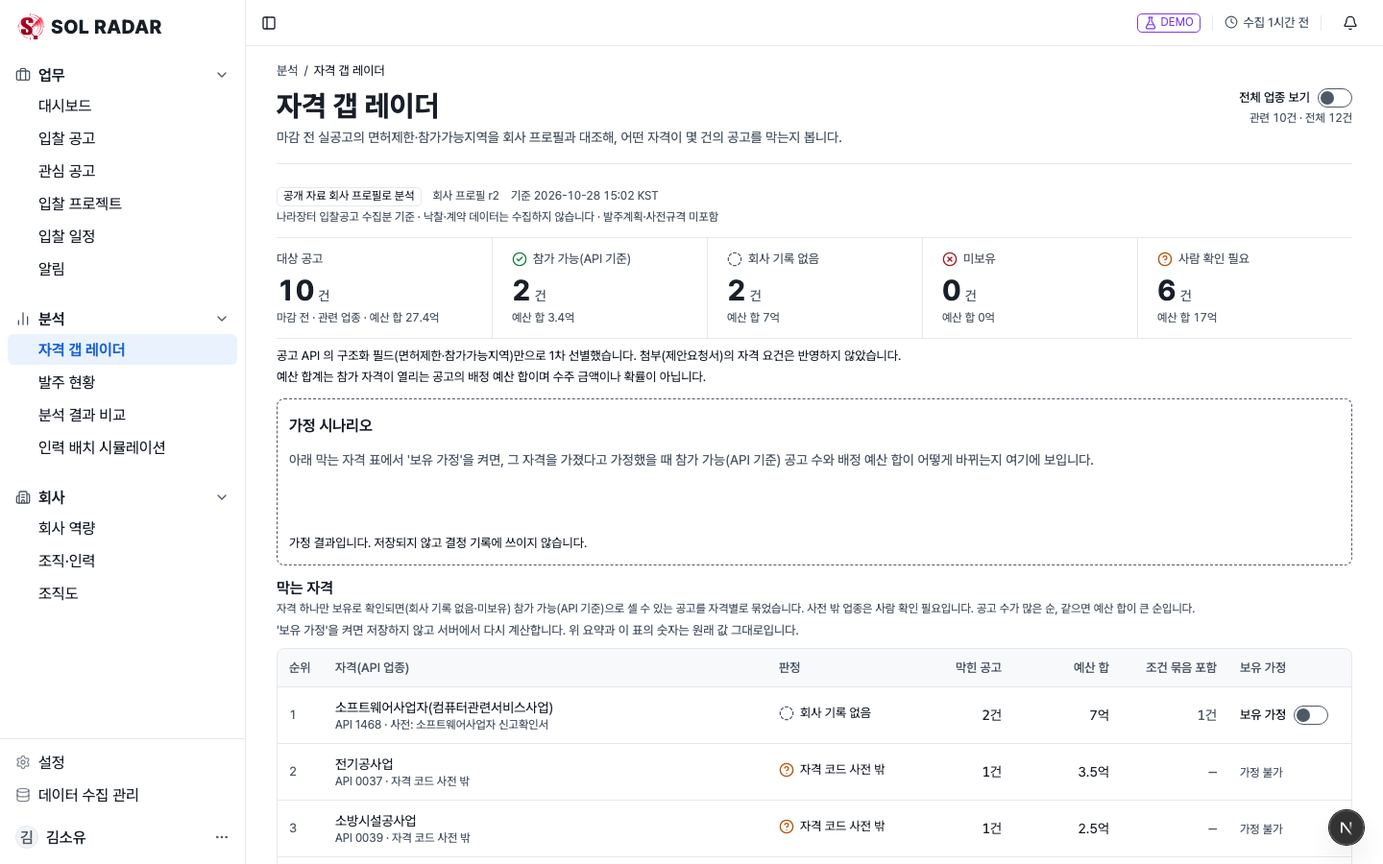
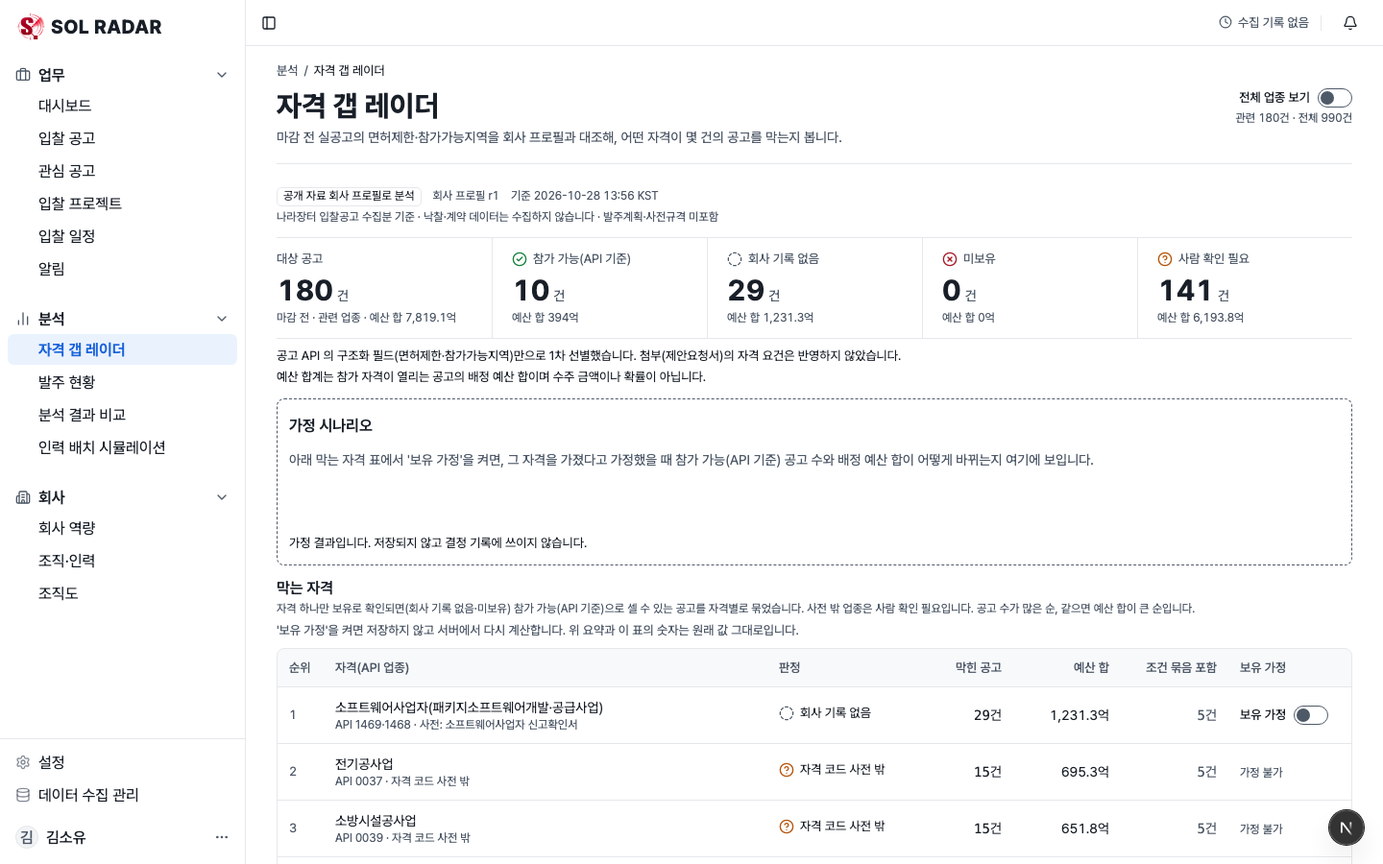
docs: 화면 개편 정본 반영
ADR-061(사이드바 4차·selected 토큰·업무 화면 공통 규칙), 06 §3.1·§3.4·§3.5·§4.1,
design-system 스킬, 계획 통합 기록, 증거 README(E2E·전 화면 점검), PROGRESS.

diff --git a/docs/06-UI-UX.md b/docs/06-UI-UX.md
@@ -83,12 +83,13 @@ flowchart TD
 | warning | `warning` | WATCH, NEEDS_REVIEW, PARTIAL, 신선도 경고 |
 | danger | `destructive` | NO-BID, NOT_SATISFIED, FAILED, 오류 |
 | demo | `demo` | `DEMO` 배지 전용. 다른 의미에 쓰지 않음 |
-| brand | `brand` | 선택 표시. 주요 버튼은 `primary`, 포커스 링은 `ring` |
+| brand | `brand` | 브랜드 색(차트 첫 계열·강조 배지·링크). 주요 버튼은 `primary`, 포커스 링은 `ring` |
+| selected | `selected`·`selected-foreground` | 선택·켜짐 바탕과 글자(사이드바 지금 메뉴, 탭·보기 전환·거르기 칩의 켜짐). `brand`의 연한 색(파스텔), 대비 4.8:1(2026-10-28 화면 개편, §3.5) |
 | info | 없음 → `muted-foreground` + 회전 아이콘 | 진행 중(QUEUED·RUNNING), 안내 |
 | neutral | 없음 → `muted-foreground` | 분석 없음, CANCELLED, 미확인 |
 | 바탕·카드 | `background`(흰색)·`card` | 화면 바탕은 흰색이고 구역은 가는 선(`border`)으로 나눈다 |
 
-`info`·`neutral`, 사이드바 활성 배경 `brand-soft`, 의미색의 연한 바탕 변형(`-soft`)은 `tokens.json`에 없다. 새 토큰을 더하지 않고 있는 토큰으로 바꾼다: `info`·`neutral`은 `muted-foreground`, 사이드바 활성은 `sidebar-accent`, 표 hover는 `bg-muted/50`, 연한 바탕 채움은 쓰지 않는다. danger 값도 `destructive`를 따른다([[16-DECISIONS|ADR-029]] A6 D15). 상태색은 글자·아이콘·테두리에만 쓰고 흰 바탕 위에 둔다(`$comment`). 텍스트 대비는 WCAG AA 4.5:1 이상을 목표로 하고, 구현 시 Playwright axe 검사로 확인한다(값을 바꾸면 검사도 다시).
+`info`·`neutral`, 의미색의 연한 바탕 변형(`-soft`)은 `tokens.json`에 없다. 새 토큰을 더하지 않고 있는 토큰으로 바꾼다: `info`·`neutral`은 `muted-foreground`, 표 hover는 `bg-muted/50`, 상태색의 연한 바탕 채움은 쓰지 않는다. 선택 바탕만 예외로 `selected` 짝을 더했다(2026-10-28 화면 개편, [[16-DECISIONS|ADR-061]]). 사이드바 활성(`sidebar-accent` 짝)도 같은 값이다. `accent`(회색)는 드롭다운·고스트 버튼·사이드바 hover 바탕이라 선택 표시에 쓰지 않는다. danger 값도 `destructive`를 따른다([[16-DECISIONS|ADR-029]] A6 D15). 상태색은 글자·아이콘·테두리에만 쓰고 흰 바탕 위에 둔다(`$comment`). 텍스트 대비는 WCAG AA 4.5:1 이상을 목표로 하고, 구현 시 Playwright axe 검사로 확인한다(값을 바꾸면 검사도 다시).
 
 ### 3.2 상태 표기 (아이콘 + 텍스트 병기)
 
@@ -128,7 +129,7 @@ flowchart TD
 | 간격 | 4px 기반: `4 8 12 16 24 32 48`. 섹션 간 32, 카드 내부 16~24, 표 셀 8×12 |
 | 그림자 | 카드 없음(테두리만), 드로어·모달 `0 8px 24px rgba(0,0,0,.12)` |
 | 모서리 | 하나로 맞춘다. `Card`·화면에서 만든 테두리 상자·버튼·입력칸은 `rounded-lg`(`radius` 8px), 더 큰 모서리는 떠 있는 창(대화상자)만. 임의 값(`rounded-[10px]`)을 쓰지 않는다(2026-10-28, design.actibooky.com DESIGN_RULES) |
-| 표 | 행 높이 44, 헤더 고정, 숫자 열 우측 정렬, 홀짝 배경 없음(hover만) |
+| 표 | 행 높이 44, 헤더 고정, 숫자 열 우측 정렬, 홀짝 배경 없음(hover만). 머리 줄 연한 회색 바탕·바깥 둥근 1px 테두리(§3.5) |
 | 애니메이션 | 150ms ease-out. `prefers-reduced-motion`이면 회전 아이콘 제외 전부 끔 |
 
 **글자 눈금 예외 — 대시보드**([[16-DECISIONS|ADR-030]] B25): `/dashboard` 본문(`AppPage` 안)만 글자 눈금을 +3px 키운다. body 14→17, label 13→16, caption 12→15, heading 16→19, title 30→33이고 줄 높이도 각각 +3px, 굵기·자간은 그대로다. 사이드바·Topbar·다른 화면은 그대로다. 값의 정본은 `design/tokens.json`의 대시보드 범위 변형이고 `pnpm tokens`가 범위 CSS를 만든다. design-system 스킬의 디자인 규칙 3번("같은 역할의 글자는 어느 화면에서나 같은 크기")의 예외다. 사이드바의 같은 예외는 §4.1이다.
@@ -137,16 +138,34 @@ flowchart TD
 
 중앙 정렬 히어로와 최대 1200px의 단 폭을 쓰고 장식은 걷어냈다(근거: [AI 티 걷어내기 스펙](../polaris/specs/done/2026-10-26-design-declutter.md)). 규칙은 다음과 같다.
 
-- 히어로만 가운데 정렬이고(사용자 결정), 나머지 구역의 제목·설명은 왼쪽 정렬이다(결정 L1).
+- 히어로와 흐르는 줄 둘(아래)이 가운데 정렬이고(사용자 결정), 나머지 구역의 제목·설명은 왼쪽 정렬이다(결정 L1).
+- **흐르는 줄 둘**(2026-10-28 화면 개편, [[16-DECISIONS|ADR-061]]): 히어로 바로 아래에 "솔리데오가 수행한 공공 서비스"(솔리데오 누리집 govSM.do의 17개 서비스 이미지) 줄과 "SOL RADAR 가 공고를 가져오는 곳"(9개 기관 로고) 줄을 둔다. 둘 다 로고·이미지만 있고 이름 글자·"연결 예정" 꼬리표가 없다. 제목은 작은 회색 글자 한 줄이고, 출처 줄 아래에 "기관 로고는 공고 데이터 출처 표시이며 제휴·인증을 뜻하지 않습니다."를 둔다. CSS만으로 목록을 두 번 이어 붙여 흘리고(둘째 사본 `aria-hidden`), 양 끝은 흐려지는 마스크다. 마우스를 올리거나 키보드 초점이 들어오면 멈추고, `prefers-reduced-motion`이면 흐르지 않고 줄바꿈한 멈춘 줄이다. 기관 로고는 기본 회색조이고 마우스를 올리면 원래 색이다. 로고는 각 기관 공식 CI 파일(나라장터·LH·한국전력공사는 마크 + 국문 이름 시그니처)을 고치지 않고 쓰며, 넓이가 같아지도록 기관마다 높이를 맞춘다. 9곳 가운데 아직 수집하지 않는 곳은 [랜딩 출처 연결 목록](plans/2026-10-28-landing-sources-to-connect.md)이 관리한다.
+- **녹화 영상**(2차 배포): 새 화면이 운영에 배포된 뒤 D1 운영 사이트에서 녹화한 15~30초 클립(소리 없음, webm + mp4)을 히어로와 흐르는 줄 사이에 둔다. 영상 파일이 들어오기 전에는 이 구역을 그리지 않는다(`LANDING_VIDEO = null`). `prefers-reduced-motion`이면 자동 재생하지 않고 포스터 + 재생 버튼이다.
 - 흰 바탕에 `brand` 파랑은 시작 버튼·메뉴 hover·링크·초점에만 쓴다. 큰 면을 `brand`로 칠하지 않고, 버튼에 색 그림자를 두지 않는다.
 - 분석 예시는 가짜 창 점과 큰 그림자 없이 1px 선 테두리이고, 무대는 중립 바탕이다.
 - 기능 4개와 원칙 4개는 같은 배치를 되풀이하는 구분선 행이다(왼쪽 제목·설명, 오른쪽 화면 조각 또는 "화면에서" 예시). 제목 앞 아이콘·좌우 교차·색 바탕 교차·번호가 없다. 번호는 순서가 정보인 3단계에만 본문 색으로 붙인다("01").
-- 움직임은 첫 화면과 분석 예시의 등장 하나다. 구역마다 같은 떠오르기를 되풀이하지 않는다.
+- 움직임은 첫 화면과 분석 예시의 등장, 흐르는 줄 둘(2026-10-28)이다. 구역마다 같은 떠오르기를 되풀이하지 않는다.
 - FAQ는 왼쪽 제목과 오른쪽 펼친 답변이다. 마지막 안내는 잉크색(`foreground`) 띠에 흰 글자와 시작하기 버튼 하나다(결정 L2). 바닥글은 흰 바탕이다.
 
 이 랜딩의 단 폭·흰 바닥글·브랜드 색 쓰임은 design-system 스킬의 마케팅 틀 규정보다 우선한다. 이전 랜딩 설계 문서는 보관 기록으로 유지한다.
 
-색·글꼴·글자 눈금은 기존 `design/tokens.json`을 유지한다. 제품 문구·기능 개발 상태·앵커·계정 진입 경로는 바꾸지 않는다. 분석 예시의 예시 데이터 표시, 점수 옆 수주 확률 고지, 담당자 결정 대기, 공고 선택·방향키 조작과 움직임 줄이기를 유지한다. 1440×900·1280×800 첫 화면에서 점수와 고지가 보이고 가로 넘침이 없어야 한다. 확인 결과는 [[PROGRESS]]와 `docs/evidence/landing/20261021-*`·`docs/evidence/design-declutter/`에 남긴다.
+색·글꼴·글자 눈금은 기존 `design/tokens.json`을 유지한다. 제품 문구·기능 개발 상태·앵커·계정 진입 경로는 바꾸지 않는다. 분석 예시의 예시 데이터 표시, 점수 옆 수주 확률 고지, 담당자 결정 대기, 공고 선택·방향키 조작과 움직임 줄이기를 유지한다. 1440×900·1280×800에서 "분석 예시 보기"를 누르면 점수와 고지가 함께 화면 안에 보이고, 가로 넘침이 없어야 한다(2026-10-28 흐르는 줄이 히어로와 분석 예시 사이에 들어와 "스크롤 없이 첫 화면에서"를 바꿨다. 점수가 고지 없이 보이지 않는다는 단언은 그대로다). 확인 결과는 [[PROGRESS]]와 `docs/evidence/landing/20261021-*`·`docs/evidence/design-declutter/`에 남긴다.
+
+### 3.5 업무 화면 공통 (2026-10-28 화면 개편)
+
+로그인 뒤 모든 업무 화면이 같은 틀을 쓴다([[16-DECISIONS|ADR-061]], 근거 [화면 개편 스펙](../polaris/specs/in-progress/2026-10-28-ui-refresh.md) §4.3). 화면 고유의 데이터·문구·링크·`aria-*`는 바꾸지 않았다.
+
+- **화면 머리**(`web/components/app-page.tsx`): 경로(묶음 / 화면, 회색 `type-label`, `web/components/app-breadcrumb.tsx`) → `eyebrow`(뒤로 링크처럼 기능이 있을 때만) → 제목(`type-title`) → 설명 → 1px 아래 구분선이다. 경로는 사이드바 메뉴 정의(`app-nav.ts`의 `breadcrumbOf`)에서 찾고, 묶음이 없는 화면(설정 등)은 경로 줄이 없다. 경로의 두 칸은 링크가 아니다. 본문 위 여백은 16px다(`/gaps` 1440×900 첫 화면에 순위 1~3행이 들어가게).
+- **표**(`web/components/ui/table.tsx`): 머리 줄 연한 회색(`bg-muted/50`), 바깥 둥근 1px 테두리(`rounded-lg border`), 행 구분선. 이미 테두리가 있는 상자 안의 표는 `containerClassName="rounded-none border-0"`으로 바깥 테두리를 꺼서 두 겹이 되지 않게 한다. 표를 감싼 `Card`는 두지 않는다.
+- **칩**(`web/components/ui/chip.tsx`): 회색 칩(`tone="neutral"`, `secondary` 바탕)과 강조 배지(`tone="brand"`, 파란 1px 테두리 + 파란 글자). 촘촘한 곳은 `size="sm"`(높이 20px, `type-caption`). 상태색 배지(충족·확인 필요·미충족, BID·WATCH·NO-BID), `DEMO`, 출처 배지(기관 로고 색·회사 프로필 출처)는 뜻이 있는 표시라 이 부품으로 바꾸지 않는다.
+- **카드**: 기본 그림자가 없다(1px 선과 여백, 2026-10-26 원칙).
+- **선택·켜짐 표시**: 켜짐은 `bg-selected text-selected-foreground font-semibold`, 꺼짐은 `text-muted-foreground hover:bg-muted`, 크기 `rounded-md px-3 py-1.5 type-label`이다. 하는 일에 따라 세 모양이다.
+
+| 종류 | 예 | 모양 |
+|---|---|---|
+| 1. 다른 화면·구역으로 가는 탭 | 설정 메뉴, 입찰 공고 종류(`bids-source-nav`), `/company` 탭 | 바깥 테두리 없이 `flex gap-1` |
+| 2. 같은 목록을 다른 기준으로 보는 하나 고르기 전환 | 입찰 일정 조직 전체/내 일정, 알림 전체/안 읽음, `/market` 기간·업종 범위 | 바깥 `inline-flex rounded-lg border border-border p-0.5` 상자 안의 알약(상자 안은 `py-1`) |
+| 3. 여러 개 켜는 거르기 칩 | 입찰 일정 일정 종류, 입찰 공고 출처 빠른 선택 | 칩마다 1px 테두리(`rounded-md border border-border`), 켜짐은 `border-transparent` + 선택 바탕. 바깥 상자 없음 |
 
 ## 4. 레이아웃 그리드
 
@@ -174,8 +193,9 @@ flowchart TD
 └──────────┴────────────────────────────────────────────────────────────────────────────────┘
 ```
 
-- 사이드바는 256px 고정(템플릿 `Sidebar` 폭 `16rem`, [[16-DECISIONS|ADR-029]] A6 D15). 접으면 메뉴 아이콘만 남는 64px 아이콘 줄이 된다(§4.1). 펼친 상태에서 묶음은 작은 회색 묶음 이름 줄(오른쪽 끝에 접기 화살표)로 나누고, 메뉴는 묶음 이름과 같은 왼쪽 선에 들여쓰기·세로선 없이 선다. 메뉴마다 글자 왼쪽에 회색 아이콘이 있다(§4.1, 2026-10-28 3차 결정. 그림은 아이콘을 생략했다). 활성 항목은 `sidebar-accent` 바탕 + 굵기 500 + `aria-current="page"` 하나로 표시하고 `brand` 막대는 쓰지 않는다(§4.1, 2026-10-26). 바탕은 본문과 같은 흰색이고 오른쪽 1px 선으로 본문과 나눈다. 그림의 "…"는 §4.1 표의 나머지 메뉴다.
-- 사이드바 묶음과 메뉴 15개(모두 `released`)는 §4.1이 정본이다. 묶음 아래 선으로 나눈 맨 아래 고정 칸에 설정·데이터 수집 관리와 사용자 칸이 있다. 노출 조건 5개([[16-DECISIONS|ADR-021]])를 채운 메뉴는 링크로, 아직 화면이 없는 메뉴는 링크 없이 메뉴 이름만 보인다. 2026-10-21 사용자 후속 요청으로 "준비 중" 배지와 툴팁 문구를 제거한다. 미출시 메뉴는 초점을 받지 않고 경로는 404 그대로다. 메뉴 정의는 `web/components/app-nav.ts` 한 곳(`released`·`planned`)이다. 메뉴 숨김은 권한이 아니며, 서버가 라우트마다 권한을 따로 검사한다. 미인증은 기존 인증 정책, 미출시 경로 404, 출시 경로에 권한 없음 403이다. 그림의 "수집 관리"는 데이터 수집 관리(`/admin/ingestion`, ADMIN만)다. 사용자 메뉴: 설정, 서비스 운영(`/ops`, 운영자만. `/ops` 분리는 해커톤 이후, [[16-DECISIONS|ADR-023]]), 로그아웃([[16-DECISIONS|ADR-021]]). 사이드바 맨 위 로고 아래 회사 이름 "솔리데오"는 고정 표시이고 조직 전환 메뉴가 없다.
+- 사이드바는 256px 고정(템플릿 `Sidebar` 폭 `16rem`, [[16-DECISIONS|ADR-029]] A6 D15). 접으면 메뉴 아이콘만 남는 64px 아이콘 줄이 된다(§4.1). 펼친 상태에서 묶음은 회색 묶음 아이콘 + 굵은 묶음 이름 + 오른쪽 끝 접기 화살표 줄로 나누고, 묶음 안 메뉴는 아이콘 없이 글자만 묶음 이름 선까지 들여 쓴다(§4.1, 2026-10-28 4차 결정. 그림은 묶음 아이콘을 생략했다). 활성 항목은 연한 파랑 바탕(`sidebar-accent`) + 파란 글자 + 굵기 600 + `aria-current="page"` 하나로 표시하고 `brand` 막대는 쓰지 않는다(§4.1). 바탕은 본문과 같은 흰색이고 오른쪽 1px 선으로 본문과 나눈다. 그림의 "…"는 §4.1 표의 나머지 메뉴다.
+- 사이드바 묶음과 메뉴 15개(모두 `released`)는 §4.1이 정본이다. 묶음 아래 선으로 나눈 맨 아래 고정 칸에 설정·데이터 수집 관리와 사용자 칸이 있다. 노출 조건 5개([[16-DECISIONS|ADR-021]])를 채운 메뉴는 링크로, 아직 화면이 없는 메뉴는 링크 없이 메뉴 이름만 보인다. 2026-10-21 사용자 후속 요청으로 "준비 중" 배지와 툴팁 문구를 제거한다. 미출시 메뉴는 초점을 받지 않고 경로는 404 그대로다. 메뉴 정의는 `web/components/app-nav.ts` 한 곳(`released`·`planned`)이다. 메뉴 숨김은 권한이 아니며, 서버가 라우트마다 권한을 따로 검사한다. 미인증은 기존 인증 정책, 미출시 경로 404, 출시 경로에 권한 없음 403이다. 그림의 "수집 관리"는 데이터 수집 관리(`/admin/ingestion`, ADMIN만)다. 사용자 메뉴: 설정, 서비스 운영(`/ops`, 운영자만. `/ops` 분리는 해커톤 이후, [[16-DECISIONS|ADR-023]]), 로그아웃([[16-DECISIONS|ADR-021]]). 사이드바 맨 위는 로고(대시보드 링크)만 있고 조직 전환 메뉴가 없다(회사 이름 줄은 2026-10-28 사용자 결정으로 뺐다, `e9224f46`).
+- 위 막대에는 화면 이름을 두지 않는다. 화면 이름은 본문 머리의 경로(묶음 / 화면)와 제목에 있다(§3.5, 2026-10-28 화면 개편: 한 화면에 같은 이름이 세 번 나오지 않게). 사이드바가 안 보일 때(접은 넓은 폭) 지금 조직을 알 수 있게 위 막대 왼쪽에 조직 이름을 둔다.
 - Topbar 우측 순서는 고정: `DemoBadge` → `DataFreshnessIndicator` → `NotificationBell` → 사용자 메뉴(2026-10-26 현재, `web/components/topbar-status.tsx`). 그림의 `[DEMO]*`는 지금 보는 데이터 출처(주소의 `?origin=`, 없으면 서버 기본 출처)가 `demo`일 때만 보인다(`web/components/topbar-demo-indicator.tsx`). 실행 모드와 따로다. 템플릿 사이드바는 접으면 숨어서 로고 옆 배지가 사라지므로 Topbar에 둔다([[16-DECISIONS|ADR-029]] A6 D3). 행 단위 `DEMO` 배지는 모드와 무관하게 `isDemo=true` 레코드에 붙는다.
 - **2026-10-26 변경**: Topbar의 `RunModeIndicator`("실행 모드: mock")와 `AiModeIndicator`("AI: …")를 렌더링에서 뺐다([[plans/2026-10-26-live-ops-cutover|10-26 실운영 전환 실행서]] §1). 배포 설정 값이라 업무 사용자에게 뜻이 없고, 실공고를 보는 운영 화면에 "mock"이 보여 데모로 오해하게 했기 때문이다. 값과 연결은 그대로다. 지금 실행 모드·AI는 공고 상세 분석 요약 띠("분석 실행 모드: …"·"AI: …", §7)와 분석 결과 비교 화면의 "실행 모드" 행·분석 이력 필터에서 분석 단위로 보인다. 런타임 진단은 `GET /api/v1/admin/ai/status`(ADMIN, 지금 이를 보여 주는 화면은 없다)와 `/admin/ingestion`(수집 모드·정기 일정·[지금 불러오기], §5.8)이 맡는다.
 - Topbar 지표(`DataFreshnessIndicator`)의 값·색·갱신 주기는 §8이 정본이다.
@@ -183,6 +203,8 @@ flowchart TD
 - 1920px 이상은 콘텐츠를 1440에 가두고 좌우 여백으로 처리한다.
 
 ### 4.1 사이드바 묶음과 메뉴
+
+**묶음 머리 아이콘·파스텔 선택(4차 결정, 2026-10-28)**: 사용자가 대시보드 레퍼런스(`web/public/reference/ui.png`, granter User Guide 캡처)를 주며 "사이드바를 눌렀을 때 파스텔톤이고, 아이콘이 심플하고 깔끔함"을 좋다고 했고, 브라우저 시안 A를 골랐다(스펙 U2). 묶음 줄은 회색 묶음 아이콘(업무 `briefcase`, 분석 `chart-no-axes-column`, 회사 `building-2`) + 본문 색 굵은 묶음 이름 + 늘 보이는 접기 화살표다. 묶음 안 메뉴는 펼친 상태에서 아이콘 없이 글자만 묶음 이름 선(아이콘 16px + 사이 8px)까지 들여 쓴다. 활성은 연한 파랑 바탕 + 파란 글자 + 굵기 600이고, hover는 회색이다(파랑이면 선택이 둘로 보인다). 첫 결과 스크린샷을 사용자가 보고 확정했다. 3차 결정의 트리 세로선 없음·묶음 사이 16px, 접기 기능, 글자 크기 예외(+3px), 묶음 3개와 순서, 맨 아래 고정 칸(아이콘 + 글자 그대로), 흰 바탕, 64px 아이콘 줄(접으면 메뉴별 아이콘)은 그대로다. 줄 높이는 32px 그대로다(36px이면 1280×800에서 메뉴가 아래 고정 칸에 가려 사이드바 안 스크롤이 생긴다). 결정 기록은 [[16-DECISIONS|ADR-061]]·[[16-DECISIONS|ADR-021]] 2026-10-28 4차 개정, 증거는 [화면 개편](evidence/ui-refresh/README.md)이다. 아래 3차 결정 문단의 "묶음 줄"·"메뉴 아이콘"·"활성 굵기 500"은 이 결정으로 바뀌었다.
 
 **actibooky 톤(3차 결정, 2026-10-28)**: 사용자가 "아직도 촌스럽다"며 design.actibooky.com 사이드바를 참고하라고 했고, 비교 시안의 A안을 골랐다. 트리 세로선과 들여쓰기를 없애고, 묶음 줄은 작은 회색 묶음 이름 + 오른쪽 끝 접기 화살표로 바꾸고, 메뉴 아이콘을 회색으로 낮추고, 활성 굵기를 600에서 500으로 낮추고, 묶음 사이를 16px 띄웠다. 묶음 접기 기능, 펼친 상태 아이콘, 글자 크기 예외(+3px), 묶음 3개와 순서, 맨 아래 고정 칸, 흰 바탕, 64px 아이콘 줄은 그대로다. 결정 기록은 [[16-DECISIONS|ADR-021]] 2026-10-28 3차 개정, 증거는 [사이드바 actibooky 톤](evidence/sidebar-actibooky/20261028/README.md)이다.
 
@@ -192,10 +214,10 @@ flowchart TD
 
 **2026-10-21 사용자 후속 요청 — 표시 변경**: 미출시 메뉴는 이름만 링크 없이 표시한다. "준비 중" 배지와 접힌 사이드바의 툴팁 접미사는 모두 제거한다. `planned` 상태·초점 제외·미출시 경로 404·권한 가드는 유지한다. 지금 `planned` 메뉴는 없으며, 이 규칙은 향후 미출시 메뉴에도 적용한다.
 
-- **맨 위**: SOL RADAR 로고(`web/components/logo.tsx`)와 그 아래 작은 회색 글자의 회사 이름이다. 머리글자 사각형은 두지 않는다. 받은 초대가 있으면 그 아래 아이콘 + "받은 초대" 줄과 개수를 둔다.
-- **묶음 줄**: 접기 버튼이다. 왼쪽에 묶음 이름(작은 회색 글자, 굵기 500), 오른쪽 끝에 접기 화살표(펼침 `chevron-down`/접힘 `chevron-right`, 14px)만 두고 아이콘은 없다. 펼친 묶음의 화살표는 마우스를 올리거나 키보드 초점이 올 때만 보이고, 접은 묶음의 화살표는 늘 보인다. 첫 묶음 밖의 묶음은 위 묶음과 16px 띄운다. `aria-expanded`·`aria-controls`를 단다. 묶음 목록의 접근 이름은 묶음 이름(업무·분석·회사)이다. 지금 화면이 속한 묶음은 처음 열거나 다른 묶음의 화면에서 옮겨 올 때 펼친다(같은 묶음 안에서 옮기면 접어 둔 그대로다, `web/components/app-nav.ts`의 `currentNavGroupId`). 접힘 상태는 보는 사람 브라우저의 `localStorage`(키 `sol-radar.sidebar.collapsed-groups`, `web/lib/stores/sidebar-groups.ts`)에만 두며, 저장값을 읽지 못하면 모두 펼친 상태로 시작하고, 저장하지 못해도 지금 창의 접고 펴기는 그대로 된다(다음 방문 때 모두 펼친다). 서버 렌더와 첫 그림은 모두 펼친 상태로 그리고 저장값은 그 뒤에 읽어 하이드레이션이 어긋나지 않는다.
-- **메뉴**: 들여쓰기·세로선 없이 묶음 이름·맨 아래 고정 칸과 같은 왼쪽 선에 선다. 아이콘 16px + 글자 16px(`type-label` 13px에 아래 글자 크기 예외 +3px). 아이콘은 장식(`aria-hidden`)이고 이름은 항상 글자로 보인다. 아이콘 색은 `muted-foreground` 70%이고, 지금 화면과 마우스를 올린 메뉴만 글자색이다. 가장 긴 이름 "인력 배치 시뮬레이션"도 펼친 폭 256px에서 말줄임 없이 들어가야 한다(1440·1280 두 폭). 링크이며 지금 화면이면 `aria-current="page"`다. 활성 표시는 `sidebar-accent` 바탕 + 굵기 500 하나이고 `brand` 막대를 쓰지 않는다. hover는 옅은 회색 바탕이다.
-- **맨 아래 고정 칸**: 위쪽 1px 선으로 메뉴 영역과 나눈다. 설정·데이터 수집 관리(ADMIN만) 다음 사용자 칸이다. 설정·데이터 수집 관리는 묶음 줄 없이 위 메뉴와 같은 아이콘 + 글자로 보인다. 사용자 칸은 한 줄(작은 아바타 + 이름 + 메뉴 표시)이고 이메일은 열린 메뉴 안에만 보인다. 메뉴 영역이 길어지면 메뉴 영역만 스크롤되고 고정 칸 자리는 바뀌지 않는다.
+- **맨 위**: SOL RADAR 로고(`web/components/logo.tsx`, 대시보드 링크)만 있다. 회사 이름 줄과 머리글자 사각형은 두지 않는다. 받은 초대가 있으면 그 아래 아이콘 + "받은 초대" 줄과 개수를 둔다.
+- **묶음 줄**: 접기 버튼이다(높이 32px). 왼쪽에 회색 묶음 아이콘(16px)과 묶음 이름(`type-label`, 본문 색, 굵기 600), 오른쪽 끝에 회색 접기 화살표(펼침 `chevron-down`/접힘 `chevron-right`, 16px)를 둔다. 화살표는 늘 보인다. hover는 회색(`accent`) 바탕이다. 첫 묶음 밖의 묶음은 위 묶음과 16px 띄운다. `aria-expanded`·`aria-controls`를 단다. 묶음 목록의 접근 이름은 묶음 이름(업무·분석·회사)이다. 지금 화면이 속한 묶음은 처음 열거나 다른 묶음의 화면에서 옮겨 올 때 펼친다(같은 묶음 안에서 옮기면 접어 둔 그대로다, `web/components/app-nav.ts`의 `currentNavGroupId`). 접힘 상태는 보는 사람 브라우저의 `localStorage`(키 `sol-radar.sidebar.collapsed-groups`, `web/lib/stores/sidebar-groups.ts`)에만 두며, 저장값을 읽지 못하면 모두 펼친 상태로 시작하고, 저장하지 못해도 지금 창의 접고 펴기는 그대로 된다(다음 방문 때 모두 펼친다). 서버 렌더와 첫 그림은 모두 펼친 상태로 그리고 저장값은 그 뒤에 읽어 하이드레이션이 어긋나지 않는다.
+- **메뉴**: 묶음 안 메뉴는 펼친 상태에서 아이콘 없이 글자만, 세로선 없이 묶음 이름 선까지 들여 쓴다(`pl-8`). 글자 16px(`type-label` 13px에 아래 글자 크기 예외 +3px). 메뉴별 아이콘은 접은 64px 줄에서만 보인다(장식, `aria-hidden`). 가장 긴 이름 "인력 배치 시뮬레이션"도 펼친 폭 256px에서 말줄임 없이 들어가야 한다(1440·1280 두 폭). 링크이며 지금 화면이면 `aria-current="page"`다. 활성 표시는 연한 파랑 바탕(`sidebar-accent` = `selected`) + 파란 글자(`sidebar-accent-foreground`) + 굵기 600 하나이고 `brand` 막대를 쓰지 않는다. 활성 메뉴는 마우스를 올려도 그 바탕 그대로다. hover는 회색(`accent`) 바탕이다.
+- **맨 아래 고정 칸**: 위쪽 1px 선으로 메뉴 영역과 나눈다. 설정·데이터 수집 관리(ADMIN만) 다음 사용자 칸이다. 설정·데이터 수집 관리는 묶음 줄 없이 회색 아이콘 + 글자로 보인다(들여 쓰지 않는다, 활성·hover는 위 메뉴와 같다). 사용자 칸은 한 줄(작은 아바타 + 이름 + 메뉴 표시)이고 이메일은 열린 메뉴 안에만 보인다. 메뉴 영역이 길어지면 메뉴 영역만 스크롤되고 고정 칸 자리는 바뀌지 않는다.
 - **접은 상태(64px)**: 묶음 줄을 숨기고 메뉴 아이콘만 세로로 놓는다. 묶음을 접어 두었어도 이 상태에서는 모든 메뉴 아이콘이 보인다. 묶음 사이와 고정 칸 위에 짧은 1px 선을 긋는다. 마우스를 올리거나 키보드 초점이 오면 메뉴 이름 툴팁이 뜨고, 링크에는 `aria-label`로 이름을 준다. 맨 위에는 로고 마크만 남는다.
 - **바탕**: 본문과 같은 흰색(`design/tokens.json`의 `sidebar`) + 오른쪽 1px 선이다(S2).
 - **글자 크기 예외**([[16-DECISIONS|ADR-030]] B26): 앱 틀 사이드바 전체(회사 이름·메뉴·묶음 줄·맨 아래 사용자 칸)의 글자는 모든 화면에서 앱 틀 기본 눈금보다 3px 크다. 실제 사이드바 눈금에 +3px 하므로 메뉴 `type-label` 13→16px, caption 12→15px다(B25 대시보드와 같은 규칙, 기준 정정은 [[16-DECISIONS|ADR-031]] C1). 방식은 §3.3 대시보드 예외와 같은 `design/tokens.json` 범위 변형이고 design-system 디자인 규칙 3번의 예외다. 항목 높이는 글자에 맞춰 늘 수 있다(C6 B2에서 확정). 사용자 원문 "사이드 바 글씨도 작은데 같이 올려"(2026-10-19).

diff --git a/.claude/skills/design-system/SKILL.md b/.claude/skills/design-system/SKILL.md
@@ -9,11 +9,11 @@ description: 화면을 만들거나 고칠 때 따르는 디자인 시스템 규
 
 웹(`web/`)은 조밀하고 가는 선으로 나눈 제품 화면이다.
 
-1. **바탕은 흰색, 구역은 가는 선.** 카드는 `border` + `shadow-xs`, 줄 사이는 `divide-border` 다. 면의 색만으로 구역을 나누지 않는다. 첫 화면(마케팅 틀)만 예외다 — 아래 "웹 틀" 표를 따른다.
+1. **바탕은 흰색, 구역은 가는 선.** 카드는 `border` 만이고 그림자가 없다(2026-10-28), 줄 사이는 `divide-border` 다. 면의 색만으로 구역을 나누지 않는다. 첫 화면(마케팅 틀)만 예외다 — 아래 "웹 틀" 표를 따른다.
 2. **조밀하게.** 본문 14px, 라벨 13px. 버튼은 기본 36px(작은 것 32·28px, 큰 것 44px), 입력칸 40px, 모서리 8px 이다.
 3. **제목이 화면을 이끈다.** `h1` 은 화면에 하나이고 `type-title` 이다. 같은 역할의 글자는 어느 화면에서나 같은 크기다.
 4. **주요 버튼은 화면에 하나.** `default`(남색)는 하나만 두고 나머지는 `outline`·`ghost`·링크로 낮춘다.
-5. **색은 아낀다.** 버튼은 `primary`(남색)이고 브랜드 색 `brand` 는 차트·선택 표시에만 쓴다(첫 화면에서는 로고 점·선택 막대·점수 막대·인용 바탕·안내 아이콘에도 쓴다). 나머지 위계는 회색 단계로 만든다.
+5. **색은 아낀다.** 버튼은 `primary`(남색)이고 브랜드 색 `brand` 는 차트·강조 배지·링크에만 쓴다. 첫 화면에서는 로고 점·선택 막대·점수 막대·인용 바탕·안내 아이콘에도 쓴다. 선택·켜짐 바탕은 그 파랑의 연한 색 `selected` 다(2026-10-28, ADR-061). 나머지 위계는 회색 단계로 만든다.
 6. **틀 안에 둔다.** 로그인 뒤 화면은 업무 틀(사이드바와 위 막대. 조직(템플릿) 틀도 같은 셸), 운영자 화면은 운영자 틀(머리 막대 하나), 로그인·안내 화면은 인증 틀(화면 가운데의 좁은 단, 로고·카드 없음), 첫 화면은 마케팅 틀(머리말과 바닥글)이다.
 7. **아이콘은 `lucide-react`, 16px.** 글자 없이 아이콘만 둔 버튼에는 이름(`aria-label`)을 단다.
 8. **장식하지 않는다.** 그라데이션, 알약 배지 머리글, 색 원 번호, 문장 속 색 강조, 지어낸 수치·후기·로고, 동작하지 않는 버튼을 넣지 않는다.
@@ -54,6 +54,8 @@ design/tokens.json  ──pnpm tokens──▶  web/app/globals.css
 - 색 이름은 shadcn 의 짝을 따른다: `<이름>` 은 바탕, `<이름>-foreground` 는 그 위 글자.
   `muted` 는 연한 바탕이고 보조 글자는 `muted-foreground` 다. 테두리는 `border`, 입력칸 테두리는 `input`, 포커스 링은 `ring`.
 - `primary` 는 주요 버튼(남색), `brand` 는 브랜드 색(파랑), `accent` 는 메뉴 항목 hover 바탕이다.
+  `selected`·`selected-foreground` 는 선택·켜짐(사이드바 지금 메뉴, 탭·보기 전환·거르기 칩의 켜짐)의 바탕과 글자이고, `accent` 로 선택을 표시하지 않는다.
+  업무 화면의 머리(경로 → 제목 → 구분선)·표·칩(`components/ui/chip.tsx`)·선택 표시 3종은 `docs/06-UI-UX.md` §3.5 를 따른다.
   `sidebar-*` 여덟 개는 사이드바 안에서만 쓴다(`web/components/ui/sidebar.tsx`·`web/components/app-shell.tsx`).
 - `chart-2` 는 차트의 둘째 계열 색이다(첫째 계열은 `brand`). 막대와 범례 색 칸에만 쓰고 글자·바탕·버튼에는 쓰지 않는다.
 - `kakao`·`naver`(와 `-foreground`)는 각 회사 로그인 버튼 가이드의 지정 색이다. 간편 로그인 버튼(`web/app/auth/social-sign-in.tsx`)과 로그인 수단 목록의 회사 표시(`web/components/provider-mark.tsx`), 그리고 `kakao` 는 개인 설정의 카카오톡 알림 연결 버튼(`web/app/(app)/[slug]/settings/kakao-notify-section.tsx`, ADR-038)에만 쓰고 값을 바꾸지 않는다.
@@ -95,7 +97,7 @@ sidebar(딸려 온 sheet·tooltip)·avatar·table.
 
 | 틀 | 파일 | 쓰는 화면 |
 |---|---|---|
-| 마케팅 | `web/components/site-header.tsx`·`web/components/site-footer.tsx` | 첫 화면 `web/app/page.tsx`. 단 폭 `max-w-300` + `px-10`(글줄 1120px). 머리말 72px 단색 흰 바탕. 본문 바탕 흰색이고 구역은 여백, 구역 안 목록은 1px 선으로 나눈다. 면 색은 분석 예시 무대(`bg-muted`)와 마지막 권유 띠(`bg-foreground`·`text-background`, 버튼 하나) 둘뿐이다. 가운데 정렬은 히어로 하나다. 글자는 첫 화면 눈금(`*-lg`·`subhead`·`wordmark`)을 쓰고 13px 미만을 쓰지 않는다. 바닥글은 흰 바탕이다(`docs/06-UI-UX.md` §3.4) |
+| 마케팅 | `web/components/site-header.tsx`·`web/components/site-footer.tsx` | 첫 화면 `web/app/page.tsx`. 단 폭 `max-w-300` + `px-10`(글줄 1120px). 머리말 72px 단색 흰 바탕. 본문 바탕 흰색이고 구역은 여백, 구역 안 목록은 1px 선으로 나눈다. 면 색은 분석 예시 무대(`bg-muted`)와 마지막 권유 띠(`bg-foreground`·`text-background`, 버튼 하나) 둘뿐이다. 가운데 정렬은 히어로와 그 아래 흐르는 줄 둘(솔리데오 수행 서비스·공고 출처 로고)이다. 글자는 첫 화면 눈금(`*-lg`·`subhead`·`wordmark`)을 쓰고 13px 미만을 쓰지 않는다. 바닥글은 흰 바탕이다(`docs/06-UI-UX.md` §3.4) |
 | 인증 | `web/components/auth-frame.tsx` (`AuthFrame`·`AuthHeader`) | 로그인·가입·비밀번호(`web/app/auth/`, 주소 `/auth/login` 등), 팀 만들기(`web/app/teams/new/`)·받은 초대(`web/app/invitations/`), 로그인 필요·연결 없음 안내, 없는 주소·오류. 단 폭 `max-w-100`(400px), 가운데 정렬한 제목 아래에 폼·버튼. 비밀번호 칸은 `web/components/password-input.tsx`(보기·숨기기 버튼) |
 | 업무 | `web/app/(app)/(work)/layout.tsx` + `web/components/app-shell.tsx` | SOL RADAR 업무 화면. 주소에 조직이 없다(ADR-021): 대시보드 `/dashboard`, 공고 `/bids`·`/bids/[id]`, 알림 `/notifications`, 데이터 수집 관리 `/admin/ingestion`(업무 역할 `sol_role=ADMIN` 전용 — 아래 운영자 틀과 다르다). 조직·인력 `/people`·조직도 `/org-chart` 는 같은 `AppShell` 을 `web/app/_lib/people-read-layout.tsx`(`PeopleReadLayout`)로 그린다 |
 | 조직(템플릿) | `web/app/(app)/[slug]/layout.tsx` + `web/components/app-shell.tsx` | 템플릿에서 이어 쓰는 조직 주소 화면: 설정·멤버·팀 `/<slug>/settings`, 작업 `/<slug>/tasks`, 템플릿 대시보드 `/<slug>/dashboard`. 사이드바 `NAV` 에 없다. 옛 주소 `/settings`·`/memos` 는 지금 업무 조직의 이 화면으로 보낸다(`web/app/(app)/home.ts`) |

diff --git a/docs/PROGRESS.md b/docs/PROGRESS.md
@@ -45,6 +45,7 @@ updated: 2026-10-28
 4. [[16-DECISIONS|ADR-056]](제안): 첨부 일부만 파싱된 추출의 재사용을 분석 대기(A)로 막을지, `source_hash` 캐시 키(B)로 막을지.
 5. 파서 "지원" 판정: 코드는 [[03-AI-PIPELINE|03]] §10.3 결정 규칙 4번 판정 없이 `PARSED`를 낸다. 규칙대로 고칠지, 실표본 6건으로 규칙을 바꿀지.
 6. LH 입찰공고(15159012) 운영 반영 B단계. A단계(LH를 끈 채 코드를 main·회사 ingest Worker에 반영)는 2026-10-28 끝났다(회사 ingest Worker `1646e7d033a1`, 12:00 나라장터 `SUCCEEDED`). registry 켜기(B1)는 main `c5c88510`에 들어갔고, 회사 반영(B2~B4)은 따로 승인한다([[2026-10-27-lh-bid-notice-activation|LH 활성화 계획]] §4.2).
+7. 화면 UI 개편([[16-DECISIONS|ADR-061]]) 통합 branch `feat/ui-refresh`의 main 병합·push·Vercel 1차 배포. 그 뒤 운영에서 랜딩 영상을 녹화(로그인은 사용자가 직접)해 2차 배포한다.
 
 ### 남은 일
 
@@ -52,6 +53,7 @@ updated: 2026-10-28
 - 리허설 중 FX-02를 재분석하지 않는다. 촬영 때 "이전 분석 66(가상 프로필) → 새 분석 43(공개 자료 프로필, 예상)"이 보여야 한다([[16-DECISIONS|ADR-059]]). 촬영의 S4 [재분석]만 한다.
 - 덱 pptx(`docs/submission/deck/sol-radar-deck.pptx`, git 밖)는 10-28 에 [[slides-spec|덱 제작 명세]]와 18장을 대조해 글·표·노트를 맞췄다(10-25 원본은 `sol-radar-backups/deck/` 에 백업). 그림·포스터는 옛 mock 화면 그대로라 촬영 뒤 바꾼다. 명세가 정본이다.
 - 카카오 실수신 녹화 전에 사용자 연결과 S0 수신 시험을 한다.
+- 화면 개편(ADR-061): 1차 배포 → 운영 녹화 영상 넣어 2차 배포 → 11-01부터 화면 동결·덱 클립 촬영. 2026-11-02 사용자 승인 뒤 운영 읽기 SELECT로 랜딩 출처 9곳 수집을 확인하고, 연결 안 된 곳은 로고를 뺄지 사용자가 정한다([출처 연결 목록](plans/2026-10-28-landing-sources-to-connect.md)).
 - 열린 확인: 운영 로그인 화면 확인(DEMO 마감 이동 뒤), 로그인 뒤 E2E(`test:e2e:work`·`test:e2e:auth`, Compose 필요. 수집 장애 격리·사이드바 되돌림·실운영 전환 변경에서 미실행), 배포 뒤 사진 1장 올리기·지우기([릴리스 실행서](evidence/integration/20261025-release-runbook.md) §4).
 
 **16에서 넘어온 할 일**(번호는 [[16-DECISIONS|16]]의 미결정·닫힌 미결정 번호):
@@ -133,6 +135,8 @@ updated: 2026-10-28
 ## 최근 작업 로그
 
 형식: `날짜 · 변경 · 검증`. 검증에는 실제로 돌린 명령과 결과만 적는다.
+
+- 2026-10-28 · 화면 UI 전체 개편([[16-DECISIONS|ADR-061]], 사용자 승인, [스펙](../polaris/specs/in-progress/2026-10-28-ui-refresh.md)): 선택·켜짐 파스텔 토큰 `selected`, 사이드바 묶음 머리 아이콘·메뉴 글자만 들여 쓰기(ADR-021 4차 개정, 사용자가 스크린샷 확정), 업무 화면 공통 틀(경로 → 제목 → 구분선, 표 머리 줄·둥근 테두리, `Chip`, 카드 그림자 없음, 선택 표시 3종), 랜딩 흐르는 줄 둘(솔리데오 수행 서비스 17개·공고 출처 9곳 로고만, U8). 영상 구역은 2차 배포. 작업자 넷(0f·ac·09·df)이 화면을 나눠 맡고 통합 branch `feat/ui-refresh` `b8aac468`로 합쳤다. 서버·DB·API·문구 뜻 변경 없음. 연결 안 된 출처 7곳은 [목록](plans/2026-10-28-landing-sources-to-connect.md), 11-02 운영 확인 · 전체 `pnpm verify` exit 0(`83af32c6`: 루트 286·web 885·`next build`·AI 170·결정 57), 리뷰 후속(`b8aac468`)은 `pnpm verify:changed --base 83af32c6` 통과·브라우저 14, 공개 E2E 51 통과(`83af32c6` 빌드), 독립 리뷰 1회(상 1건은 W2 커밋으로 이미 고쳐짐, 중 2건·하 2건 반영, 하 3건 기록만: 흐르는 줄 멈춤 버튼·분석 예시 탭 색 외 표시·출처 줄 제목), 화면별 1440·1280 스크린샷([증거](evidence/ui-refresh/README.md)). `test:e2e:work`(격리 스택): 1회차(`83af32c6`) axe `label-content-name-mismatch` 4건(사이드바 로고 링크, main `e9224f46`부터 있던 결함)·1280 페이지 열기 시간 초과 1건, 2회차(`b8aac468`, 로고 이름 고침) 17 통과·1 실패(격리 스택 Storage 버킷 누락, `pnpm storage:local` 뒤 그 spec 만 재실행 통과), 전 화면 점검 22경로 × 1440·1280 HTTP 200·넘침 0·pageerror 0. 미실행: `test:e2e:work` 전체 3회차, 운영 데이터 화면(배포 뒤)
 
 - 2026-10-28 · 입찰 일정 원본 일정·관련 공고 반영(운영 달력이 비어 있어 사용자 선택 1번, [[16-DECISIONS|ADR-060]] 후속): 조직 전체 보기에 관련 업종(`RELEVANT`·`CANDIDATE`) 실공고 마감과 나라장터 입찰공고 원본(`raw_payload`) 일정 5종(제출 시작·자격 등록 마감·협정서 마감·현장설명회·개찰), 일정 종류 거르기 칩 7개(`?kinds=`), 다가오는 14일 8건 + 접기([[06-UI-UX|06]] §5.15). 공공 API 추가 호출·Worker·마이그레이션·service role 0, 운영 DB 읽기 SELECT 1회([기록](evidence/calendar/20261028/prod-raw-check.md)). `218ee1f1`·`6da869df`, 2026-10-28 main 병합·push · 검증: 전체 `pnpm verify` exit 0(루트 286·web 98파일 880·`next build`·AI 170·결정 57), 서버 시험 34·브라우저 시험 9(변형 실패 확인), 09 독립 리뷰(하 5건 중 4건 반영), 격리 로컬 Supabase 로그인 QA(1440·1280, 59개 중 55 + 상한 밖 4개 내 일정에서 확인, 하 2건 수정), 응답 크기(가상 관련 222건, prod 빌드) 2.2MB → 516KB·gzip 41KB([증거](evidence/calendar/20261028/README.md)). 미실행: 관련 공고 읽기 실패 안내 줄 화면 확인(시험만), 로그인한 운영 화면
 - 2026-10-28 · LH A단계 회사 반영: `sol-radar-app` `24f2ac8` → `1646e7d0` fast-forward(사용자 결정으로 main 최신이 아닌 이 커밋에 고정, `compose.company.yaml` 로컬 수정 보존), 롤백 태그 `rollback-20261027-lh`(= `24f2ac84963c`), 09:15 ingest Worker만 `1646e7d033a1`로 재생성. LH API 호출 0회 · 일회용 `--check` exit 0(외부 6종 `DISABLED`), `--status` Job Scheduler 1개, healthy·restarts 0, 다른 sol-radar 컨테이너 그대로, `/health/ready` 200, 12:00 회차 `SUCCEEDED`·`COMPLETE`(247건), LH `ingest_runs` 0건([기록](evidence/company-rollout/20261028/lh-a-stage-ingest-worker.md))

diff --git a/docs/evidence/ui-refresh/README.md b/docs/evidence/ui-refresh/README.md
@@ -1,0 +1,42 @@
+# 화면 UI 개편 (2026-10-28)
+
+스펙: `polaris/specs/in-progress/2026-10-28-ui-refresh.md`. 계획: `docs/plans/2026-10-28-ui-refresh.md`. 결정: `docs/16-DECISIONS.md` ADR-061. 화면 규칙: `docs/06-UI-UX.md` §3.1·§3.4·§3.5·§4.1.
+
+통합 branch `feat/ui-refresh`(main `c9319df3` 기준). 작업자 넷이 각자 worktree·branch 에서 화면을 나눠 고치고, 메인 세션(45)이 diff·스크린샷을 확인한 뒤 합쳤다.
+
+| 작업자 | branch | 맡은 것 |
+|---|---|---|
+| W1 0f | `feat/ui-refresh-shell` | 토큰 `selected`, 사이드바, 화면 머리 경로, `ui/table`·`ui/chip`·`Card`, 설정·관리 화면, 입찰 일정·알림, 관심 공고·입찰 프로젝트 |
+| W2 ac | `feat/ui-refresh-work` | 대시보드, 입찰 공고 목록·부처 공고, 공고 상세·변경 이력, 회사 역량 |
+| W3 09 | `feat/ui-refresh-analysis` | 자격 갭 레이더, 발주 현황, 분석 결과 비교, 인력 배치 시뮬레이션(고칠 곳 없음) |
+| W4 df | `feat/ui-refresh-landing` | 랜딩 흐르는 줄 둘·출처 로고, 조직·인력·조직도 |
+
+## 스크린샷
+
+화면 데이터는 작업자마다 격리 로컬 Supabase 의 가상 데이터(`db-seed`, `demo:reset`, 작업자가 넣은 "(가상)" 행)다. 운영 데이터 화면은 배포 뒤 따로 본다. 파일 이름 앞머리는 찍은 작업자(w1~w4)다.
+
+- 앱 틀: `w1-sidebar-{1440,1280}`, `w1-sidebar-collapsed`, `w1-page-head-{bids,gaps,settings}-{1440,1280}`
+- 업무: `w2-dashboard-*`, `w2-bids-*`, `w2-bids-table-1280`, `w2-bids-programs-*`(+`-drawer-1280`), `w2-bid-detail-long-*`(띄어쓰기 없는 긴 공고명 W05), `w2-bid-detail-history-*`, `w2-bid-revisions-*`, `w2-watchlist-*`, `w2-projects-*`, `w2-project-detail-*`, `w1-calendar-*`(+`-1280-full`), `w1-notifications-*`
+- 분석: `w3-gaps-*`, `w3-gaps-1440-first`(1440×900 첫 화면, 관련 180건 데이터, 순위 3행 바닥 y 893), `w3-gaps-1440-assume`, `w3-market-*`, `w3-analysis-*`(+`-compare`), `w3-workforce-*`
+- 회사: `w3-company-{tech,licenses,projects,history,people,preferences,financials}-1440`, `w3-company-projects-1280`, `w3-people-*`, `w3-org-chart-*`(팀 선택 파스텔)
+- 로그인: `w3-auth-login-1440`
+- 설정·관리: `w1-settings-{account,members,organization}-*`, `w1-tasks-*`, `w1-admin-ingestion-*`
+- 랜딩: `w4-landing-{1440,1280}`, `w4-landing-services-1440`, `w4-landing-sources-1440`, `w4-landing-sources-hover-1440`(마우스를 올린 칸 원색), `w4-landing-sources-reduced-1440`(움직임 줄이기, 9곳 한눈에)
+
+한계:
+- 스크린샷은 작업자가 자기 화면을 끝낸 시점의 코드다. `w2-dashboard`·`w3-gaps-1440`·`w3-market-*`은 머리 버튼을 제목 줄로 내린 `90267ef5` 전, `w2-projects-*`는 보드 열 바탕을 바꾼 `90267ef5` 전이다. 리뷰 후속 `b8aac468`(사이드바 눌림 색·카드 안 표 테두리 2곳·`/market` 알약 높이)은 어느 스크린샷에도 없다. 최종 코드의 전 화면은 아래 점검으로 확인했다.
+- 인력 배치 시뮬레이션 표는 기간 충돌이 있어야 나오는데 시험 데이터에 충돌이 없어 표 모양을 화면으로 보지 못했다.
+- 공고 상세 가정 띠는 격리 데이터에 가정 계산 입력 기록이 없어 찍지 못했다(`what-if.browser.test` 통과로만 확인).
+- 영상 구역은 2차 배포에서 생긴다. 지금 랜딩에는 없다.
+
+## 검증 (통합 branch)
+
+- 전체 `pnpm verify` exit 0 (`83af32c6` + 정본 문서 수정 작업 폴더): 루트 286, web 99파일 885, `next build`, AI 170, 결정 57.
+- 커밋 게이트(`verify:quick`)는 통합 병합 커밋마다 통과했다.
+- 작업자 검증: 화면마다 관련 단위·브라우저 시험과 `pnpm verify:changed`, 1440·1280 가로 넘침 0·pageerror 0. 시험 단언은 랜딩 첫 화면 시험 하나만 스펙 §4.5 대로 바꿨다.
+- 공개 E2E 51 통과(`83af32c6` 빌드, 랜딩·로그인 전 경로).
+- 리뷰 후속 `b8aac468`: `pnpm verify:changed --base 83af32c6` 통과, 브라우저 시험 14 통과(경로 `aria-current` 시험 1개 추가, 변형 실패 확인).
+- `test:e2e:work`(격리 로컬 Supabase + 격리 Compose, mock): 1회차(`83af32c6`) 6 통과·5 실패·7 미실행. 실패는 axe `label-content-name-mismatch` 4건(사이드바 로고 링크 `aria-label="대시보드로 이동"`이 보이는 글자 "SOL RADAR"를 담지 않음, main `e9224f46`부터 있던 결함)과 1280 페이지 열기 30초 초과 1건. 2회차(`b8aac468`, 로고 이름 "SOL RADAR 대시보드로 이동") 17 통과·1 실패. 실패 1건은 격리 스택에 Storage 버킷을 만들지 않은 환경 문제(`profile-photo.write` 업로드 400 `NoSuchBucket`)였고, `pnpm storage:local` 뒤 그 spec 만 다시 돌려 통과했다. 전체 3회차는 돌리지 않았다.
+- 전 화면 점검(`83af32c6` `next start`, ADMIN 계정): 스펙 4.4 경로 21개와 `/auth/login`을 1440·1280에서 열어 모두 HTTP 200, 가로 넘침 0, pageerror 0. 콘솔 오류는 `/dashboard`의 `/health/ready` 503 하나(격리 환경에 Storage·AI 설정이 없어서, 화면은 AI 배너로 처리).
+- 독립 리뷰 1회(`90267ef5` 기준). 상 1건(회사 역량 표 겹테두리)은 W2 회사 역량 커밋으로 이미 고쳐져 있었다. 중 2건(카드 안 표 겹테두리 2곳)과 하 2건(경로 `aria-current`, 사이드바 눌림·열림 색), 보기 전환 높이는 `b8aac468`에서 고쳤다. 기록만 한 것: 흐르는 줄 멈춤 버튼(지금은 마우스·초점 때 멈춤, 움직임 줄이기 때 멈춘 줄), 랜딩 분석 예시 탭이 색으로만 구분됨, 출처 줄 제목이 연결 전 기관까지 현재형으로 읽힘(U8 사용자 결정, 11-02 확인).
+- 이번 개편 밖에서 본 것: 조직도 "상위 미지정" 묶음 제목이 회색 버튼 바탕 안에 있다(`org-chart.tsx:203-220`, 이번 diff 가 건드리지 않은 곳).

diff --git a/docs/plans/2026-10-28-ui-refresh.md b/docs/plans/2026-10-28-ui-refresh.md
@@ -293,3 +293,20 @@ updated: 2026-10-28
 
 ### Task 10: 2차 배포
 - [ ] W4 Task 4·5 뒤 같은 절차로 영상 넣어 배포(사용자 승인 뒤). 11-01 부터 화면 동결, 덱 클립 촬영.
+
+## 통합 때 바뀐 것 (2026-10-28 기록)
+
+계획을 쓴 뒤 진행 중에 바뀐 것이다. 위 본문은 처음 계획 그대로 둔다.
+
+- 소유 이동:
+  - W3 Task 5(설정·관리)·W2 Task 5(입찰 일정·알림)·W2 Task 4(관심 공고·입찰 프로젝트)는 0f 가 했다.
+  - W3 Task 4(조직·인력·조직도)는 df, W3 Task 3(회사 역량)은 ac 가 했다.
+  - 독립 리뷰 후속(`app-shell.tsx`·`app-breadcrumb.tsx`·`app-nav.ts`·`market-view.tsx`·`[slug]/dashboard`·`admin/user-list`)은 df 가 한 번 맡았다.
+- 인터페이스:
+  - `Chip` 에 `size="md"|"sm"` 가 있다.
+  - `DataSource` 는 `{name, logo:{src,width,height}}` 이고 `status` 가 없다(U8).
+  - `AppBreadcrumb` 는 앱 틀이 넣는 `AppPathnameProvider` 문맥에서 주소를 읽는다. `aria-current` 는 메뉴 주소와 정확히 같을 때만 단다(`isMenuPage`). 경로 줄은 머리 flex 줄 위에 있어, `actions` 가 제목 줄 높이에서 시작한다.
+  - `AppPage` 본문 위 여백은 `pt-4` 다.
+- 선택 표시 3종 규칙(화면 이동 탭·하나 고르기 전환·여러 개 켜는 거르기 칩)을 정해 모든 작업자에게 같게 적용했다([[06-UI-UX|06]] §3.5).
+- Task 8(U6 운영 수집 상태 SELECT)은 U8 로 없어졌다. 대신 2026-11-02 에 9곳 수집을 확인한다([출처 연결 목록](2026-10-28-landing-sources-to-connect.md)).
+- 출처 로고: 나라장터·LH·한국전력공사는 사용자 선택으로 마크 + 국문 이름 시그니처를 쓴다. 9곳은 넓이가 같아지는 높이로 맞췄다.
